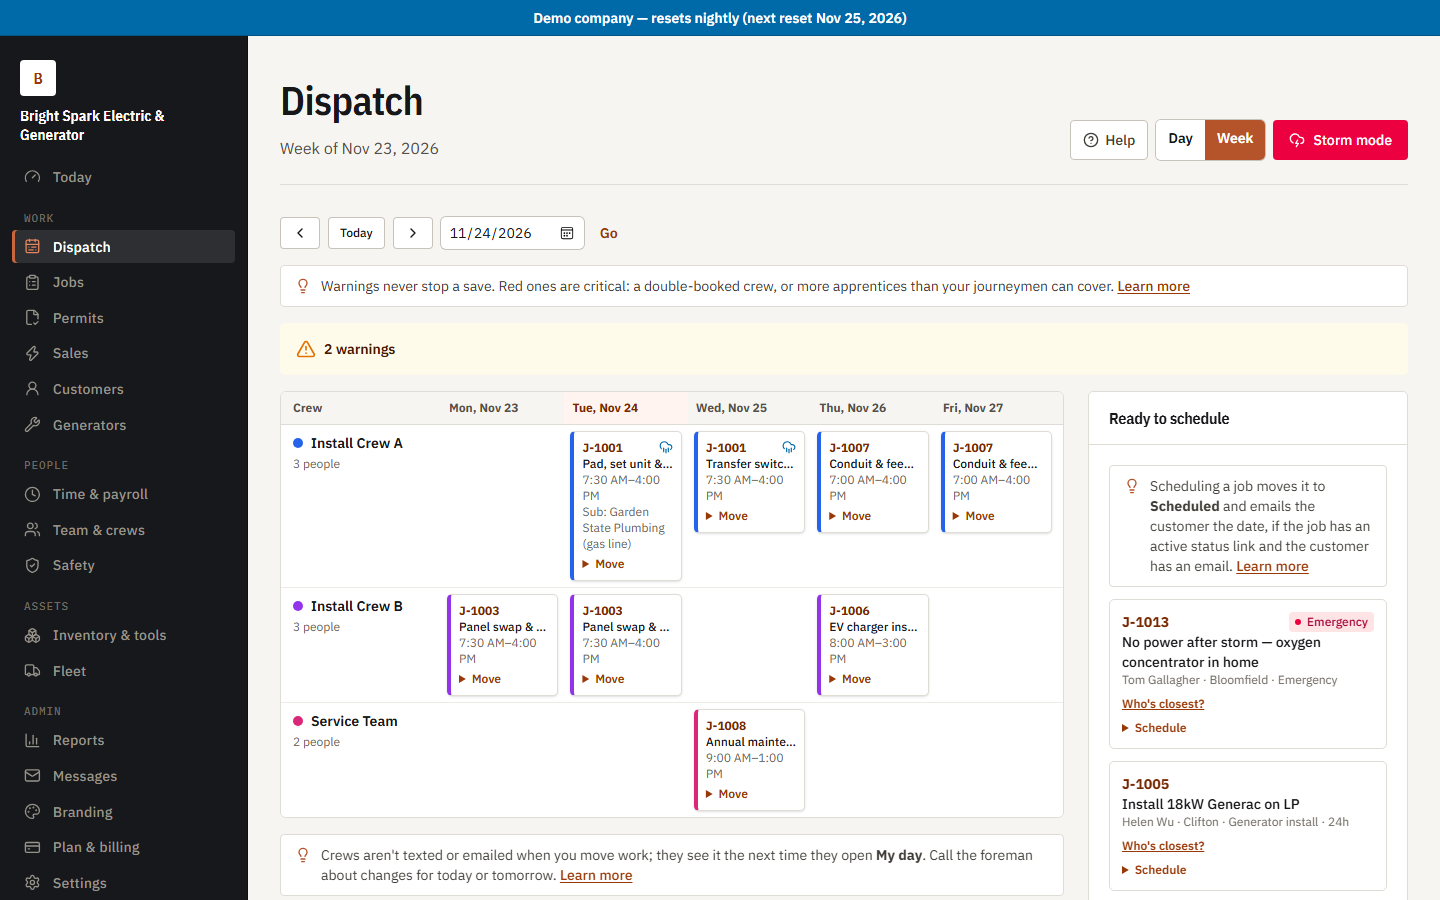
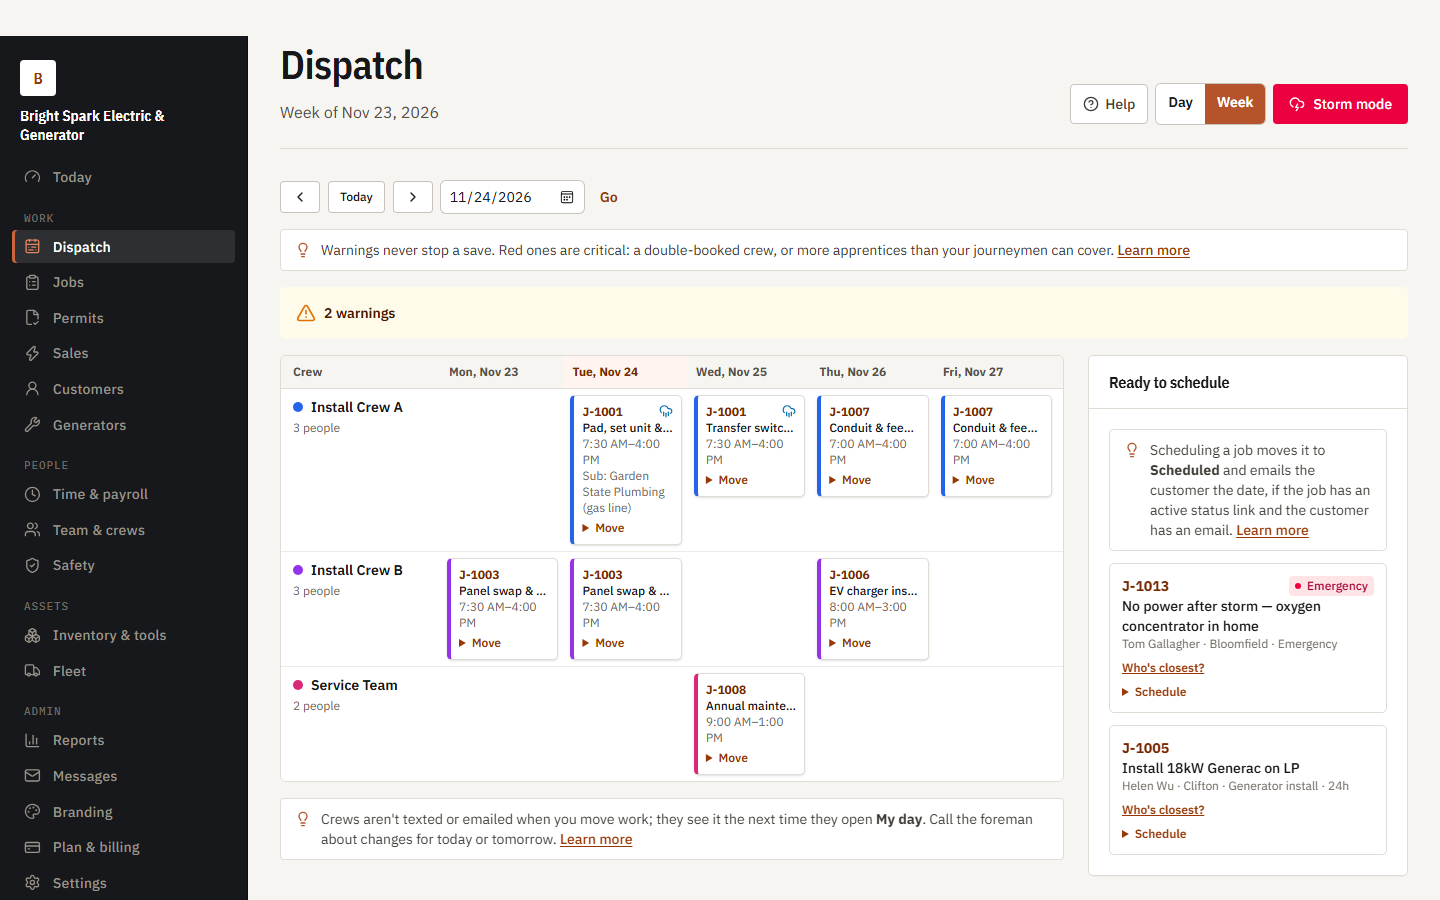
Move Wireford and Chavra Chavra to Our Products
They are Gatehouse's own products, not client work: product blocks with
laptop and phone screenshots like Soventro, plus the services list, footer
links and structured data. Client Work is back to its earlier list.

diff --git a/deploy/index.html b/deploy/index.html
@@ -29,11 +29,11 @@
       "logo": "https://gatehousestrategic.com/apple-touch-icon.png",
       "email": "hello@gatehousestrategic.com",
       "slogan": "The way through starts here.",
-      "description": "Gatehouse Strategic provides AI consulting, builds custom AI-powered software, and creates products where no good tool exists, including Soventro and howismy.site.",
+      "description": "Gatehouse Strategic provides AI consulting, builds custom AI-powered software, and creates products where no good tool exists, including Soventro, howismy.site, Wireford and Chavra Chavra.",
       "address": { "@type": "PostalAddress", "addressLocality": "Toms River", "addressRegion": "NJ", "addressCountry": "US" },
       "areaServed": "US",
-      "knowsAbout": ["AI strategy", "AI consulting", "custom software development", "event management software", "AI search visibility"],
-      "brand": [{ "@id": "https://soventro.com/#app" }, { "@id": "https://howismy.site/#app" }],
+      "knowsAbout": ["AI strategy", "AI consulting", "custom software development", "event management software", "AI search visibility", "field service software", "business networking"],
+      "brand": [{ "@id": "https://soventro.com/#app" }, { "@id": "https://howismy.site/#app" }, { "@id": "https://wireford.com/#app" }, { "@id": "https://chavrachavra.com/#app" }],
       "hasOfferCatalog": {
         "@type": "OfferCatalog",
         "name": "Services",
@@ -64,6 +64,30 @@
       "applicationSubCategory": "AI search visibility audit",
       "operatingSystem": "Web",
       "description": "howismy.site audits how a business shows up across AI answer engines such as ChatGPT, Perplexity and Google AI. It is white-label, so agencies can resell it or embed it on their own site.",
+      "publisher": { "@id": "https://gatehousestrategic.com/#org" },
+      "creator": { "@id": "https://gatehousestrategic.com/#org" }
+    },
+    {
+      "@type": "SoftwareApplication",
+      "@id": "https://wireford.com/#app",
+      "name": "Wireford",
+      "url": "https://wireford.com/",
+      "applicationCategory": "BusinessApplication",
+      "applicationSubCategory": "Field service management software",
+      "operatingSystem": "Web",
+      "description": "Wireford is operations software for electrical contractors and standby-generator dealers: dispatch, jobs, permits and inspections, crews, time and certified payroll, generator sizing and NEC load calculations, generator maintenance contracts, inventory, fleet, safety and job costing, with a phone-first view for field techs.",
+      "publisher": { "@id": "https://gatehousestrategic.com/#org" },
+      "creator": { "@id": "https://gatehousestrategic.com/#org" }
+    },
+    {
+      "@type": "SoftwareApplication",
+      "@id": "https://chavrachavra.com/#app",
+      "name": "Chavra Chavra",
+      "url": "https://chavrachavra.com/",
+      "applicationCategory": "SocialNetworkingApplication",
+      "applicationSubCategory": "Business networking",
+      "operatingSystem": "Web",
+      "description": "Chavra Chavra is a business network for the religious business community that works like a networking event that never closes: three intros a day through mutual connections, a board for asks and offers, live industry tables, job listings and business pages, with chats that open only when both sides agree.",
       "publisher": { "@id": "https://gatehousestrategic.com/#org" },
       "creator": { "@id": "https://gatehousestrategic.com/#org" }
     },
@@ -441,7 +465,7 @@ a.wrow:hover .go { color: var(--navy); }
     <div class="svc-col">
       <h2>Our Products</h2>
       <p>We find places in a market where nothing does the whole job, and build the product that fills the gap.</p>
-      <ul><li>Soventro, event software</li><li>howismy.site, AI search visibility</li></ul>
+      <ul><li>Soventro, event software</li><li>howismy.site, AI search visibility</li><li>Wireford, field operations software</li><li>Chavra Chavra, business networking</li></ul>
       <a class="arrow-link" href="#products">See our products</a>
     </div>
   </div>
@@ -508,6 +532,34 @@ a.wrow:hover .go { color: var(--navy); }
     </div>
     <div class="devices solo">
       <div class="laptop"><div class="bar"><i></i><i></i><i></i></div><img class="mono-img" src="img/howismy.png" alt="howismy.site audit page"></div>
+    </div>
+  </div>
+
+  <div class="container screen-grid">
+    <div class="screen-copy">
+      <p class="kicker">Field operations software</p>
+      <h3 class="prod-name">Wireford</h3>
+      <p class="gap"><b>The gap:</b> generic field-service software wasn't built for electrical contractors and generator dealers. It doesn't track permits and gas meters, overtime rules, apprentice ratios or generators by serial number, so the office runs on spreadsheets and phone calls.</p>
+      <p class="body">Wireford runs every job from the first call to years of service: dispatch, permits and inspections, crews and certified payroll, generator sizing and NEC load calculations, maintenance contracts that renew themselves, inventory, fleet and safety. Techs get a phone-first "My day" with GPS clock-in.</p>
+      <a class="arrow-link" href="https://wireford.com" target="_blank" rel="noopener">Visit wireford.com</a>
+    </div>
+    <div class="devices">
+      <div class="laptop"><div class="bar"><i></i><i></i><i></i></div><img class="mono-img" src="img/wireford-dispatch.png" alt="Wireford dispatch board with crews, jobs and scheduling warnings" loading="lazy"></div>
+      <div class="phone"><img src="img/wireford-phone.png" alt="Wireford owner's Today screen on a phone" loading="lazy"></div>
+    </div>
+  </div>
+
+  <div class="container screen-grid flip">
+    <div class="screen-copy">
+      <p class="kicker">Business networking</p>
+      <h3 class="prod-name">Chavra Chavra</h3>
+      <p class="gap"><b>The gap:</b> the religious business community does business through people it knows, but the only way to meet them is the occasional networking event. General networks don't respect the community's standards.</p>
+      <p class="body">Chavra Chavra is a networking event that never closes. Every morning each member gets three intros through people they both know. There's also a board for asks and offers, live industry tables, job listings and business pages. Chats open only when both sides say yes, and each member's privacy setting is enforced by the database itself.</p>
+      <a class="arrow-link" href="https://chavrachavra.com" target="_blank" rel="noopener">Visit chavrachavra.com</a>
+    </div>
+    <div class="devices">
+      <div class="laptop"><div class="bar"><i></i><i></i><i></i></div><img class="mono-img" src="img/chavra-today.png" alt="Chavra Chavra member Today screen with three intros" loading="lazy"></div>
+      <div class="phone"><img src="img/chavra-phone.png" alt="Chavra Chavra intros on a phone" loading="lazy"></div>
     </div>
   </div>
 </section>
@@ -595,6 +647,8 @@ a.wrow:hover .go { color: var(--navy); }
     <div class="fcol">
       <a class="big" href="https://soventro.com" target="_blank" rel="noopener">Soventro ↗</a>
       <a class="big" href="https://howismy.site" target="_blank" rel="noopener">howismy.site ↗</a>
+      <a class="big" href="https://wireford.com" target="_blank" rel="noopener">Wireford ↗</a>
+      <a class="big" href="https://chavrachavra.com" target="_blank" rel="noopener">Chavra Chavra ↗</a>
     </div>
     <div class="fspace"></div>
   </div>
@@ -611,8 +665,6 @@ a.wrow:hover .go { color: var(--navy); }
   // Ordered by build complexity, most complex first. Each software project has two screenshots.
   var work = [
     [["utility-platform-crm.png", "utility-platform-site.png"], "Utilities · Confidential", "Custom CRM, bill audit platform and website", "Salespeople each run their own clients; four AI models cross-check every finding"],
-    [["wireford-site.png", "wireford-dispatch.png"], "Electrical contractors · SaaS", "Field operations platform for electrical and generator contractors", "Dispatch, permits, payroll and generators in one app"],
-    [["chavra-site.png", "chavra-today.png"], "Community · Network", "Members-only business network", "Three warm intros a day"],
     [["om-builder.png", "om-builder-2.png"], "Real estate", "Offering memorandum builder", "Revisions: days to minutes"],
     [["benefits-app.png", "benefits-app-2.png"], "Government / healthcare · Confidential", "Guided benefits application", "Fewer errors, faster submissions"],
     [["lead-hunter-membership.png", "lead-hunter-membership-2.png"], "B2B services", "Self-serve prospecting membership", "Self-serve, on demand"],

diff --git a/index.html b/index.html
@@ -29,11 +29,11 @@
       "logo": "https://gatehousestrategic.com/apple-touch-icon.png",
       "email": "hello@gatehousestrategic.com",
       "slogan": "The way through starts here.",
-      "description": "Gatehouse Strategic provides AI consulting, builds custom AI-powered software, and creates products where no good tool exists, including Soventro and howismy.site.",
+      "description": "Gatehouse Strategic provides AI consulting, builds custom AI-powered software, and creates products where no good tool exists, including Soventro, howismy.site, Wireford and Chavra Chavra.",
       "address": { "@type": "PostalAddress", "addressLocality": "Toms River", "addressRegion": "NJ", "addressCountry": "US" },
       "areaServed": "US",
-      "knowsAbout": ["AI strategy", "AI consulting", "custom software development", "event management software", "AI search visibility"],
-      "brand": [{ "@id": "https://soventro.com/#app" }, { "@id": "https://howismy.site/#app" }],
+      "knowsAbout": ["AI strategy", "AI consulting", "custom software development", "event management software", "AI search visibility", "field service software", "business networking"],
+      "brand": [{ "@id": "https://soventro.com/#app" }, { "@id": "https://howismy.site/#app" }, { "@id": "https://wireford.com/#app" }, { "@id": "https://chavrachavra.com/#app" }],
       "hasOfferCatalog": {
         "@type": "OfferCatalog",
         "name": "Services",
@@ -64,6 +64,30 @@
       "applicationSubCategory": "AI search visibility audit",
       "operatingSystem": "Web",
       "description": "howismy.site audits how a business shows up across AI answer engines such as ChatGPT, Perplexity and Google AI. It is white-label, so agencies can resell it or embed it on their own site.",
+      "publisher": { "@id": "https://gatehousestrategic.com/#org" },
+      "creator": { "@id": "https://gatehousestrategic.com/#org" }
+    },
+    {
+      "@type": "SoftwareApplication",
+      "@id": "https://wireford.com/#app",
+      "name": "Wireford",
+      "url": "https://wireford.com/",
+      "applicationCategory": "BusinessApplication",
+      "applicationSubCategory": "Field service management software",
+      "operatingSystem": "Web",
+      "description": "Wireford is operations software for electrical contractors and standby-generator dealers: dispatch, jobs, permits and inspections, crews, time and certified payroll, generator sizing and NEC load calculations, generator maintenance contracts, inventory, fleet, safety and job costing, with a phone-first view for field techs.",
+      "publisher": { "@id": "https://gatehousestrategic.com/#org" },
+      "creator": { "@id": "https://gatehousestrategic.com/#org" }
+    },
+    {
+      "@type": "SoftwareApplication",
+      "@id": "https://chavrachavra.com/#app",
+      "name": "Chavra Chavra",
+      "url": "https://chavrachavra.com/",
+      "applicationCategory": "SocialNetworkingApplication",
+      "applicationSubCategory": "Business networking",
+      "operatingSystem": "Web",
+      "description": "Chavra Chavra is a business network for the religious business community that works like a networking event that never closes: three intros a day through mutual connections, a board for asks and offers, live industry tables, job listings and business pages, with chats that open only when both sides agree.",
       "publisher": { "@id": "https://gatehousestrategic.com/#org" },
       "creator": { "@id": "https://gatehousestrategic.com/#org" }
     },
@@ -441,7 +465,7 @@ a.wrow:hover .go { color: var(--navy); }
     <div class="svc-col">
       <h2>Our Products</h2>
       <p>We find places in a market where nothing does the whole job, and build the product that fills the gap.</p>
-      <ul><li>Soventro, event software</li><li>howismy.site, AI search visibility</li></ul>
+      <ul><li>Soventro, event software</li><li>howismy.site, AI search visibility</li><li>Wireford, field operations software</li><li>Chavra Chavra, business networking</li></ul>
       <a class="arrow-link" href="#products">See our products</a>
     </div>
   </div>
@@ -508,6 +532,34 @@ a.wrow:hover .go { color: var(--navy); }
     </div>
     <div class="devices solo">
       <div class="laptop"><div class="bar"><i></i><i></i><i></i></div><img class="mono-img" src="img/howismy.png" alt="howismy.site audit page"></div>
+    </div>
+  </div>
+
+  <div class="container screen-grid">
+    <div class="screen-copy">
+      <p class="kicker">Field operations software</p>
+      <h3 class="prod-name">Wireford</h3>
+      <p class="gap"><b>The gap:</b> generic field-service software wasn't built for electrical contractors and generator dealers. It doesn't track permits and gas meters, overtime rules, apprentice ratios or generators by serial number, so the office runs on spreadsheets and phone calls.</p>
+      <p class="body">Wireford runs every job from the first call to years of service: dispatch, permits and inspections, crews and certified payroll, generator sizing and NEC load calculations, maintenance contracts that renew themselves, inventory, fleet and safety. Techs get a phone-first "My day" with GPS clock-in.</p>
+      <a class="arrow-link" href="https://wireford.com" target="_blank" rel="noopener">Visit wireford.com</a>
+    </div>
+    <div class="devices">
+      <div class="laptop"><div class="bar"><i></i><i></i><i></i></div><img class="mono-img" src="img/wireford-dispatch.png" alt="Wireford dispatch board with crews, jobs and scheduling warnings" loading="lazy"></div>
+      <div class="phone"><img src="img/wireford-phone.png" alt="Wireford owner's Today screen on a phone" loading="lazy"></div>
+    </div>
+  </div>
+
+  <div class="container screen-grid flip">
+    <div class="screen-copy">
+      <p class="kicker">Business networking</p>
+      <h3 class="prod-name">Chavra Chavra</h3>
+      <p class="gap"><b>The gap:</b> the religious business community does business through people it knows, but the only way to meet them is the occasional networking event. General networks don't respect the community's standards.</p>
+      <p class="body">Chavra Chavra is a networking event that never closes. Every morning each member gets three intros through people they both know. There's also a board for asks and offers, live industry tables, job listings and business pages. Chats open only when both sides say yes, and each member's privacy setting is enforced by the database itself.</p>
+      <a class="arrow-link" href="https://chavrachavra.com" target="_blank" rel="noopener">Visit chavrachavra.com</a>
+    </div>
+    <div class="devices">
+      <div class="laptop"><div class="bar"><i></i><i></i><i></i></div><img class="mono-img" src="img/chavra-today.png" alt="Chavra Chavra member Today screen with three intros" loading="lazy"></div>
+      <div class="phone"><img src="img/chavra-phone.png" alt="Chavra Chavra intros on a phone" loading="lazy"></div>
     </div>
   </div>
 </section>
@@ -595,6 +647,8 @@ a.wrow:hover .go { color: var(--navy); }
     <div class="fcol">
       <a class="big" href="https://soventro.com" target="_blank" rel="noopener">Soventro ↗</a>
       <a class="big" href="https://howismy.site" target="_blank" rel="noopener">howismy.site ↗</a>
+      <a class="big" href="https://wireford.com" target="_blank" rel="noopener">Wireford ↗</a>
+      <a class="big" href="https://chavrachavra.com" target="_blank" rel="noopener">Chavra Chavra ↗</a>
     </div>
     <div class="fspace"></div>
   </div>
@@ -611,8 +665,6 @@ a.wrow:hover .go { color: var(--navy); }
   // Ordered by build complexity, most complex first. Each software project has two screenshots.
   var work = [
     [["utility-platform-crm.png", "utility-platform-site.png"], "Utilities · Confidential", "Custom CRM, bill audit platform and website", "Salespeople each run their own clients; four AI models cross-check every finding"],
-    [["wireford-site.png", "wireford-dispatch.png"], "Electrical contractors · SaaS", "Field operations platform for electrical and generator contractors", "Dispatch, permits, payroll and generators in one app"],
-    [["chavra-site.png", "chavra-today.png"], "Community · Network", "Members-only business network", "Three warm intros a day"],
     [["om-builder.png", "om-builder-2.png"], "Real estate", "Offering memorandum builder", "Revisions: days to minutes"],
     [["benefits-app.png", "benefits-app-2.png"], "Government / healthcare · Confidential", "Guided benefits application", "Fewer errors, faster submissions"],
     [["lead-hunter-membership.png", "lead-hunter-membership-2.png"], "B2B services", "Self-serve prospecting membership", "Self-serve, on demand"],
